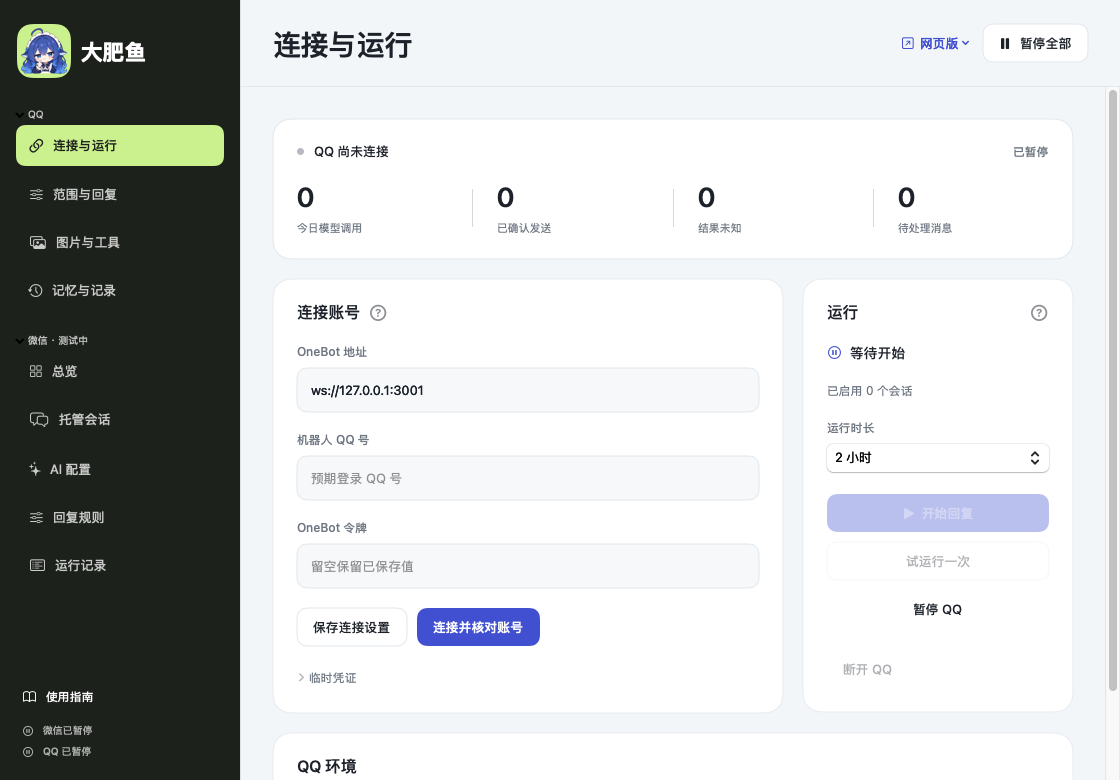
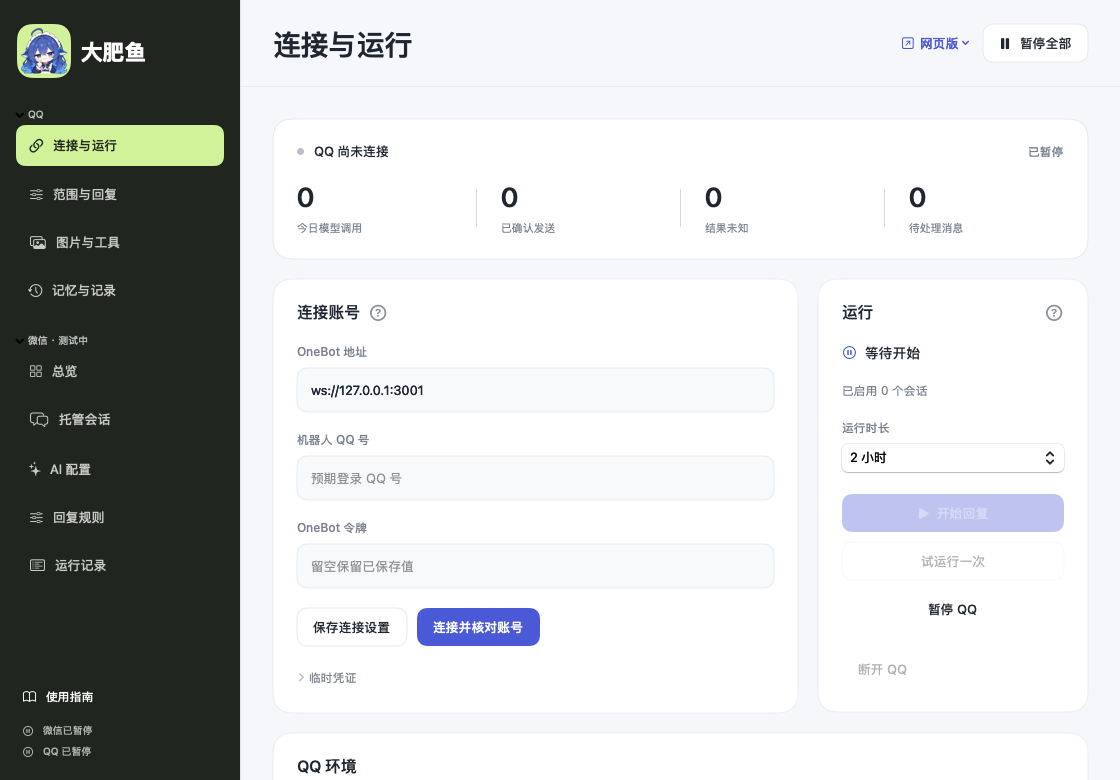
Refresh README with recent updates and native and web interface tour

diff --git a/docs/SCREENSHOTS.md b/docs/SCREENSHOTS.md
@@ -1,0 +1,51 @@
+# 界面与操作一览
+
+从连接账号到选择角色、导入表情，下面展示当前版本的实际界面。首次安装请看 [Mac 快速开始](QUICKSTART.md) 或 [Windows / WSL2 教程](WINDOWS.md)。
+
+## macOS 客户端
+
+![macOS 客户端的连接与运行页面](assets/panel-sidebar-native.png)
+
+- **连接与运行**：保存 OneBot 地址、核对账号，选择运行时长，再试运行或开始回复。
+- **范围与回复**：选择允许回复的会话，调整性格、字数、配图和主动接话条件。
+- **图片与工具 / 记忆与记录**：分别管理生图、搜图、插画定时、会话记忆与处理记录。
+
+微信功能独立放在下方目录，仍在测试。左下「使用指南」提供五步入门；问号展开具体说明。
+
+## Web 面板
+
+![本机 Web 面板的连接状态和运行控制](assets/panel-web-connection.jpg)
+
+Web 提供 QQ 的四个分区，适合在浏览器使用，也作为 Windows WSL2 的操作界面。打开进程输出的完整本机地址，加载完成后再编辑；连接成功仍需选择会话并开始运行。关闭网页不会暂停后台。
+
+截图中账号为空、计数为零、运行已暂停，展示的是首次配置前的状态。
+
+## 自定义角色与说话方式
+
+![Web 自定义性格窗口：角色名、prompt、模板、字数和配图选项](assets/panel-web-custom-persona.jpg)
+
+在「范围与回复 → 默认性格」旁点击「自定义…」：
+
+1. 输入角色名和 prompt，或先选「简短闲聊」「温柔陪伴」「犀利吐槽」模板。
+2. 调整回复字数上限，以及是否启用表情配图。
+3. 点击「应用到草稿」，检查后再点「保存范围与回复」。取消不会应用窗口里的改动。
+
+客户端也提供对应的自定义窗口。角色设定调整表达方式，不能替代账号核对、发送范围或运行限额。
+
+## Photos：挑选后再导入
+
+![Photos 公网表情库，含文字梗、搞怪与可爱风格筛选](assets/photos-public-desktop.png)
+
+打开 [photos.lifanhu.me](https://photos.lifanhu.me/)，按图集、情绪或台词筛选，勾选后导出 `.dafeiyu.json`。每包最多 50 张、24 MB；回到面板「范围与回复 → 导入本机表情」选择资源包，暂停状态下导入。
+
+网页现有 125 张 DeepSeek 娘表情，客户端默认精选 37 张。用户自行选择导入，素材保留作者、来源与许可；不把整站图库自动加入机器人。网页首批 16 张，滚动按批追加。详情见 [表情库与 Photos 说明](PHOTO_GALLERY.md)。
+
+## 截图来源与验证范围
+
+| 图片 | 来源 | 范围 |
+| --- | --- | --- |
+| macOS 客户端 | 2026-10-26，用现有 `--render-previews` 从 SwiftUI 组件重新渲染 | 演示数据，未读取私人配置；不代表原生实际点击验收 |
+| Web 连接页、性格窗口 | 2026-10-26，从独立空数据目录启动本机服务，在浏览器实际打开并操作 | 无真实账号、密钥、聊天；没有连接 QQ、调用模型或发送消息 |
+| Photos | 2026-10-25，公网实际页面截图 | 对应源码 `e6370eff`；上线及逐文件验证记录见 Photos 文档 |
+
+上述界面图没有用生图工具重绘，也没有伪造在线状态或聊天。Web 截图环境为 macOS，不能作为 Windows 实机、QQ 实际收发或回复质量的验收证明。真实对话另见 [案例专页](CASES.md)。

diff --git a/README.md b/README.md
@@ -8,13 +8,36 @@
 
 QQ 可用 · 微信测试中 · macOS 原生 / Windows WSL2 本机 Web 面板 · 持续更新、完善与迭代中
 
-[Mac 快速开始](docs/QUICKSTART.md) · [Windows 安装](docs/WINDOWS.md) · [真实案例](docs/CASES.md) · [操作指南](docs/USER_GUIDE.md) · [全部命令](docs/COMMANDS.md) · [架构与开发](docs/ARCHITECTURE.md) · [问题反馈](https://github.com/SAKURAfan1023/dafeiyu-bot/issues)
+[Mac 快速开始](docs/QUICKSTART.md) · [Windows 安装](docs/WINDOWS.md) · [界面预览](#界面预览) · [在线表情库](https://photos.lifanhu.me/) · [真实案例](docs/CASES.md) · [操作指南](docs/USER_GUIDE.md) · [全部命令](docs/COMMANDS.md) · [架构与开发](docs/ARCHITECTURE.md) · [问题反馈](https://github.com/SAKURAfan1023/dafeiyu-bot/issues)
 
 </div>
 
 大肥鱼是一个独立、非官方的成年蓝色鲸鱼娘 AI 角色。以 **DeepSeek** 为对话核心，通过 **NapCat + OneBot 11** 接入 QQ，支持独立会话记忆、十种内置性格与自定义 prompt、短句聊天、表情包、引用理解、图片/GIF 观察、联网检索、主备生图，以及 Pixiv 搜图与定时分享。
 
 > **项目状态：持续更新、完善与迭代中。** QQ 私聊与群真实 @ 回复已有真人接收确认，可用于个人测试和部署；不代表所有新功能、所有账号或连续运行时长均已验收。微信适配仍在测试，尚未完成可靠自动回复验收，请勿按成熟功能使用。macOS 提供原生界面，Windows 提供 WSL2 + 本机 Web 面板部署方式（Linux 自动化验证通过，Windows 实机待验收，见验证记录）；QQ 桥接可在独立 Linux 环境运行。当前没有 Windows 原生 exe 安装包。
+
+## 近期更新 · 2026 年 10 月
+
+- **两端面板重构**：QQ / 微信分区导航，卡片式布局与统一数字控件；说明收进问号，首次使用可按面板内五步教程操作。
+- **角色自己定义**：十种内置性格之外，可以填写角色名和 prompt，套用闲聊、陪伴或吐槽模板，同时调整字数与配图。先应用到草稿，再保存生效。
+- **表情自己挑**：[Photos](https://photos.lifanhu.me/) 已上线 125 张 DeepSeek 娘表情，包括文字梗、搞怪与可爱图集；按台词、情绪筛选，勾选后导出资源包，再导入本机。
+- **按需加载与配图**：网页首批 16 张、本机 Web 表情库首批 12 张；按语境、指定情绪或关键词设置配图。网页图库与客户端默认 37 张表情相互独立，不自动安装整站资源。
+
+## 界面预览
+
+### macOS 客户端
+
+左侧切换 QQ 与微信分区；在同一面板管理连接、运行时长、回复范围、图片工具与记忆。下图是 SwiftUI 实际渲染的演示界面，未连接 QQ。
+
+![macOS 客户端：QQ 连接与运行，左侧独立划分 QQ 和微信](docs/assets/panel-sidebar-native.png)
+
+### Web 面板
+
+用浏览器管理 QQ，共享同一套引擎与配置规则；提供 Windows WSL2 的操作入口。下图取自 macOS 上的隔离本机面板，不是 Windows 实机验收截图。
+
+![Web 面板：连接状态、调用计数、连接设置与运行控制](docs/assets/panel-web-connection.jpg)
+
+[查看性格编辑、Photos 与截图说明 →](docs/SCREENSHOTS.md) · [按步骤配置面板 →](docs/USER_GUIDE.md)
 
 ## 能做什么
 

diff --git a/docs/USER_GUIDE.md b/docs/USER_GUIDE.md
@@ -1,5 +1,7 @@
 # 操作指南
 
+先看 [客户端、Web 面板与 Photos 界面图](SCREENSHOTS.md)，再按下方步骤配置。在线表情库：[photos.lifanhu.me](https://photos.lifanhu.me/)。
+
 ## 面板目录
 
 左侧分为 **QQ** 和 **微信**，目录可展开或收起。QQ 的四个页面是「连接与运行」「范围与回复」「图片与工具」「记忆与记录」；微信的原生页面是「总览」「托管会话」「AI 配置」「回复规则」「运行记录」。Web 目前仅提供 QQ 操作，微信目录会指引到 macOS 客户端，不提供微信网页控制。
